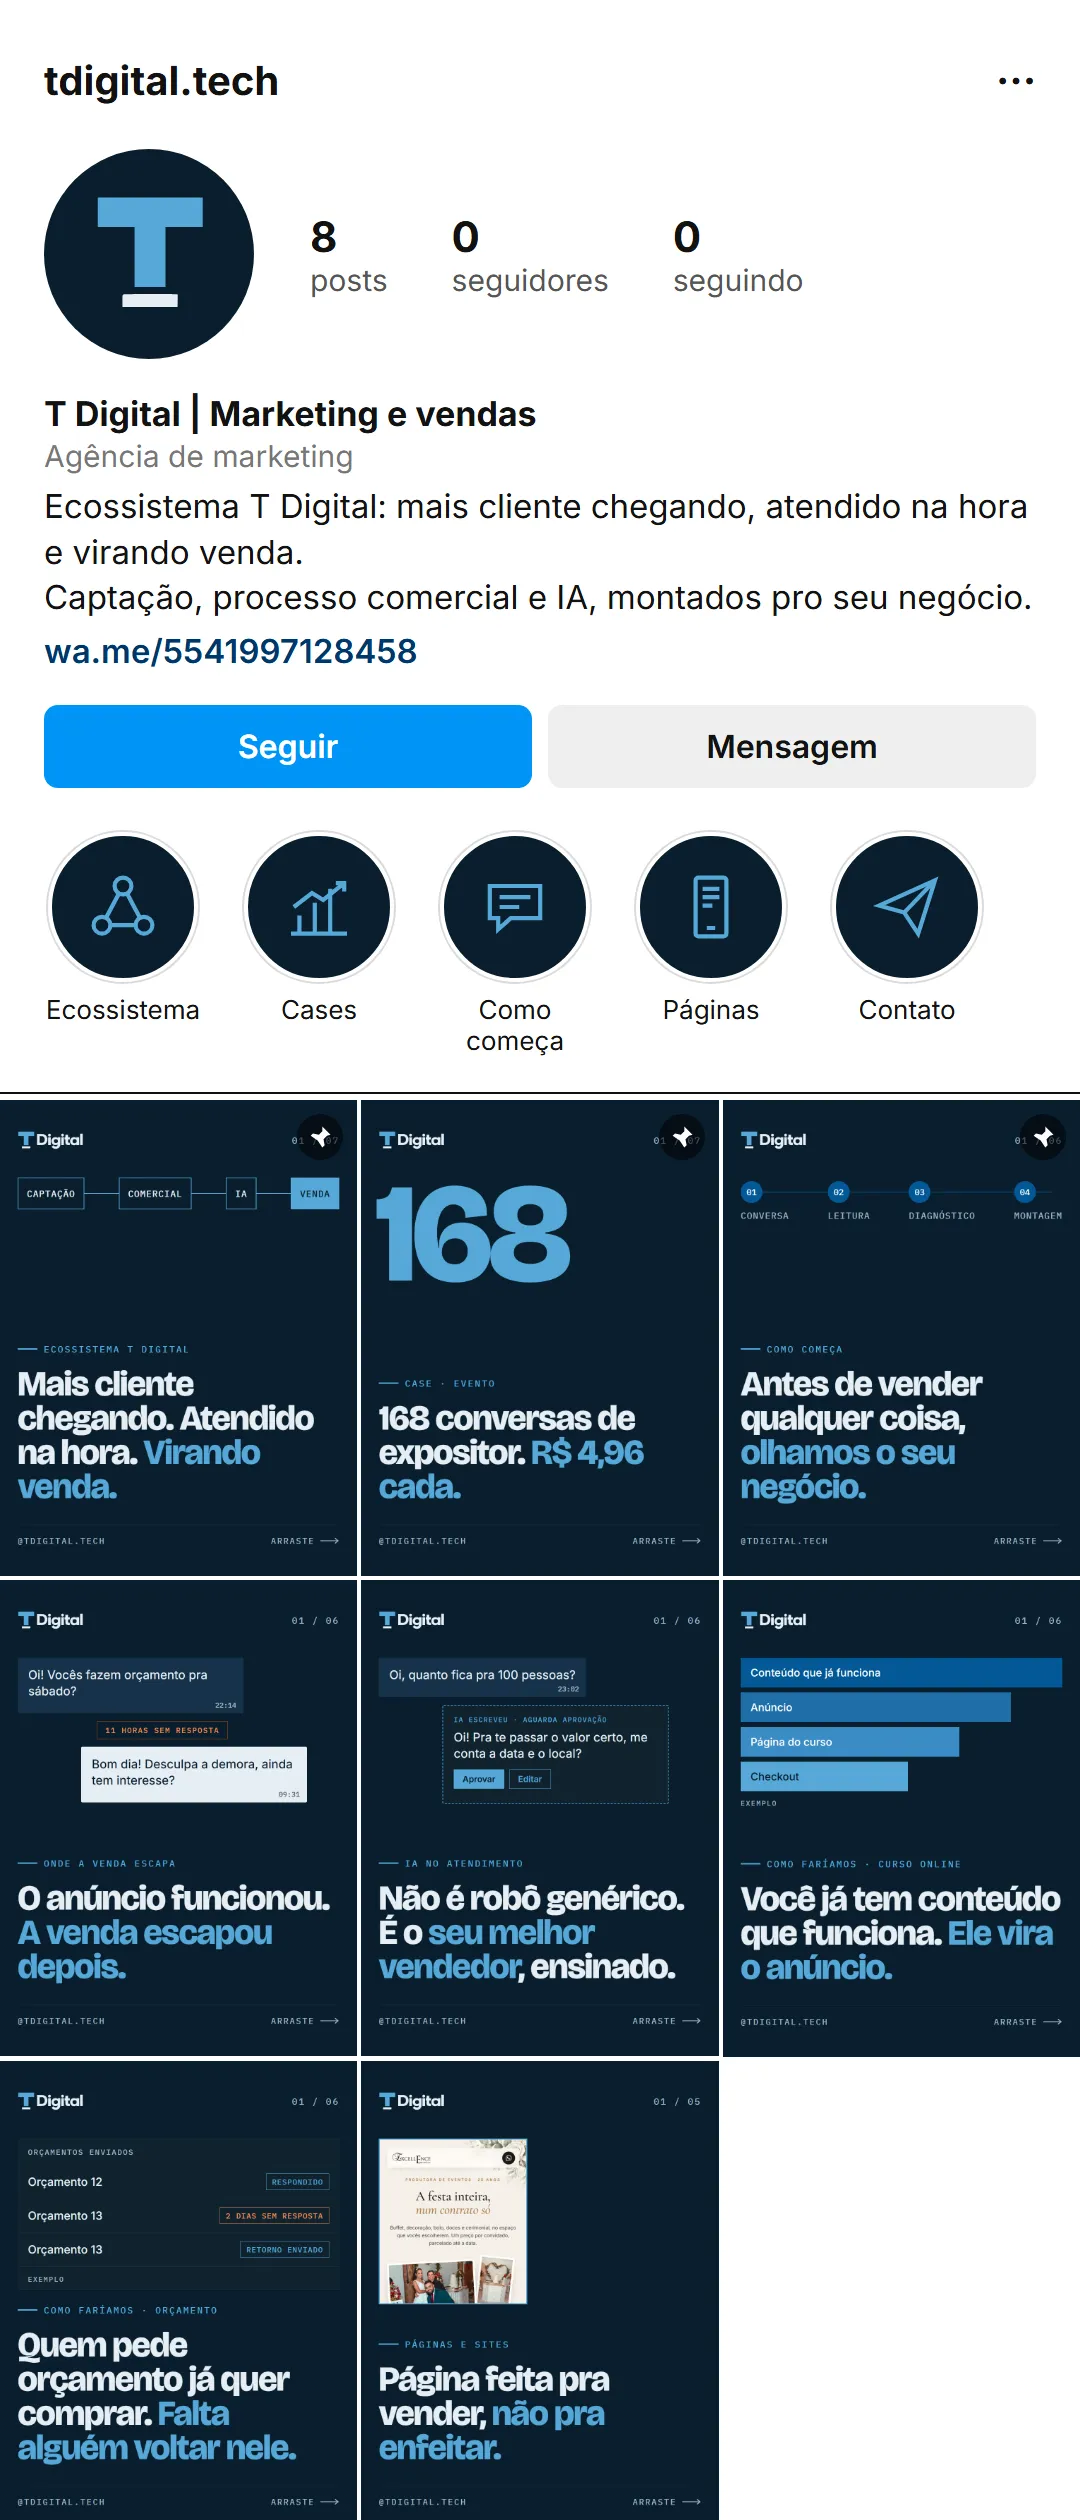
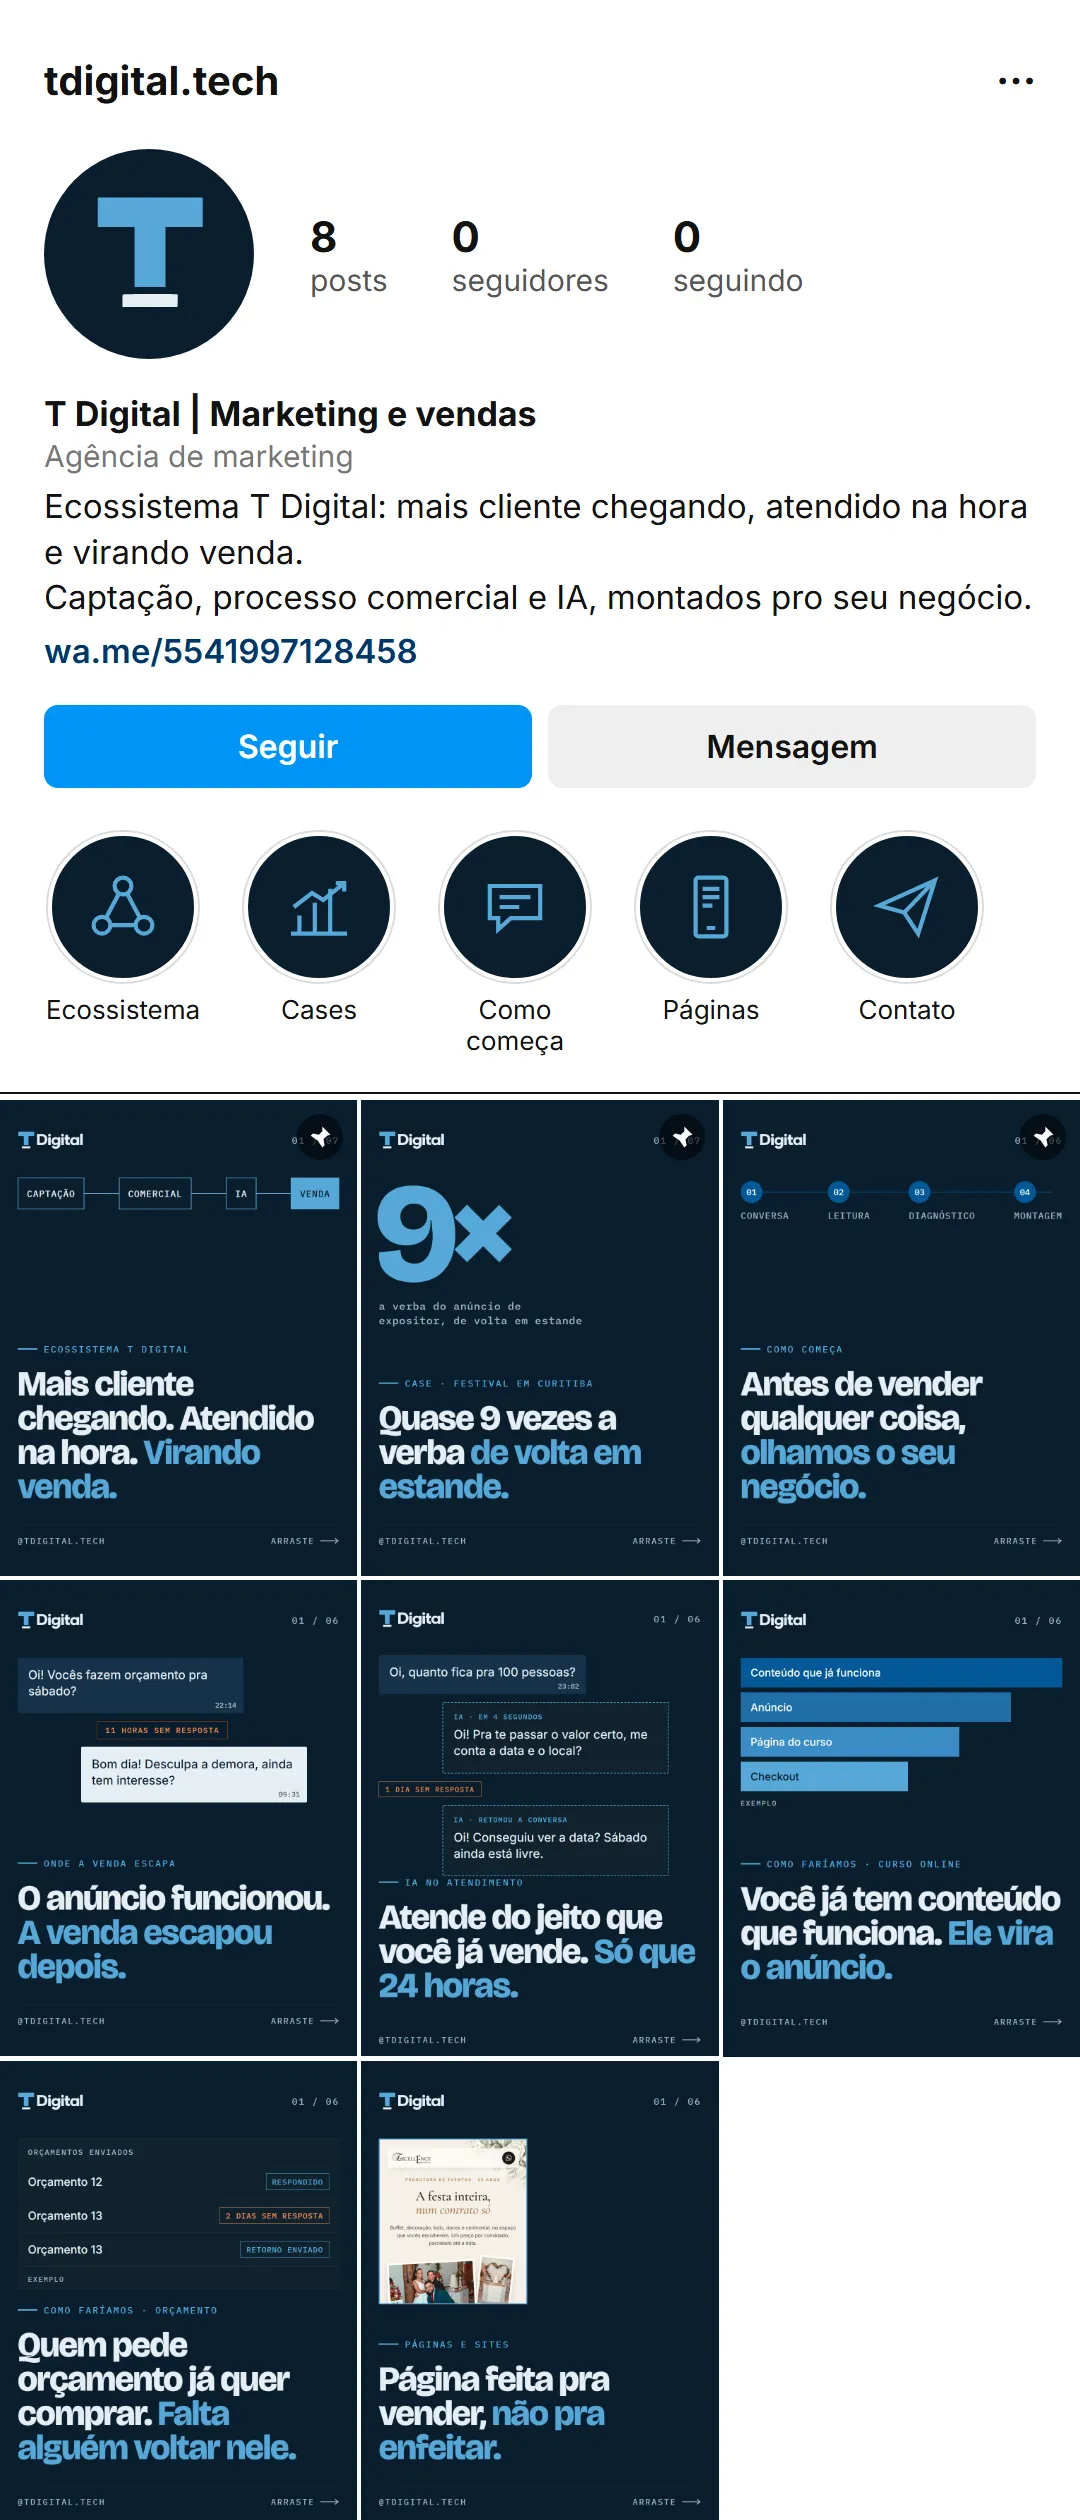
T Digital: kit do Instagram versao 3, com os ajustes da aprovacao de 17/11

Changed region(s): [[0.3361, 0.65, 0.6417, 0.8048], [0.3361, 0.4643, 0.55, 0.5262], [0.3361, 0.5571, 0.6111, 0.619]]

diff --git a/public/tdigital/2026-11-17-lancamento/dados.js b/public/tdigital/2026-11-17-lancamento/dados.js
@@ -66,6 +66,7 @@ window.DADOS = {
      "titulo": "O Ecossistema T Digital",
      "etiqueta": "Post fixado",
      "ordem": "1 de 8",
+     "nota": "Sem o T de fundo. No slide da IA, saiu o \"sua equipe aprova antes\": agora é \"você controla as respostas\".",
      "slides": [
       {
        "src": "img/2-1-1.webp",
@@ -119,15 +120,7 @@ window.DADOS = {
      "titulo": "Case: festival em Curitiba",
      "etiqueta": "Post fixado",
      "ordem": "2 de 8",
-     "escolhas": [
-      {
-       "pergunta": "Case em carrossel ou no reels de 20/10?",
-       "opcoes": [
-        "Fica o carrossel",
-        "Quero o reels no lugar"
-       ]
-      }
-     ],
+     "nota": "Sem o número de conversas. Agora pela estratégia (dois públicos, verba que muda de lado) e pelo retorno: R$ 7.350 em estandes contra R$ 833 de anúncio, quase 9 vezes. Números do relatório final da 15ª edição.",
      "slides": [
       {
        "src": "img/2-2-1.webp",
@@ -170,7 +163,7 @@ window.DADOS = {
        "resumo": "Ver a legenda",
        "partes": [
         {
-         "texto": "168 conversas de quem queria expor, a R$ 4,96 cada.\n\nFestival em Curitiba, 15ª edição. Montamos a página de quem expõe, o anúncio direto pro WhatsApp e a medição de onde veio cada conversa.\n\nArraste pro lado e veja o caminho.\n\nTem evento com data marcada? Chame no WhatsApp, o link está na bio.\n\n#eventos #marketingdeeventos #trafegopago #curitiba"
+         "texto": "Quase 9 vezes a verba de volta em estande.\n\nFestival em Curitiba, 15ª edição. 51 dias antes, 40 de 120 estandes vendidos, sem site e sem medição. Separamos os dois públicos: expositor direto pro WhatsApp da venda de estande, visitante pra página com cadastro VIP. A verba mudou de lado conforme a data chegava.\n\nO anúncio de expositor fechou R$ 7.350 em estandes com R$ 833 de verba. E ficaram 632 cadastros VIP pra próxima edição.\n\nTem evento com data marcada? Chame no WhatsApp, o link está na bio.\n\n#eventos #marketingdeeventos #trafegopago #curitiba"
         }
        ]
       }
@@ -237,6 +230,7 @@ window.DADOS = {
      "id": "2-4",
      "titulo": "Onde a venda escapa",
      "ordem": "4 de 8",
+     "nota": "Saiu a foto da casa. O slide 2 agora é o celular de perto, com a conversa que esfriou na demora, sobre um balcão desfocado. Sem o T de fundo.",
      "slides": [
       {
        "src": "img/2-4-1.webp",
@@ -284,6 +278,7 @@ window.DADOS = {
      "id": "2-5",
      "titulo": "IA no atendimento, do jeito certo",
      "ordem": "5 de 8",
+     "nota": "Reescrito com o seu argumento: treinada do jeito que você já vende, 24 horas sem limite, retoma quem parou de responder, controle total e uma pessoa assume quando precisar. Saiu o \"aprova antes\".",
      "slides": [
       {
        "src": "img/2-5-1.webp",
@@ -321,7 +316,7 @@ window.DADOS = {
        "resumo": "Ver a legenda",
        "partes": [
         {
-         "texto": "IA que responde qualquer coisa de qualquer jeito afasta cliente.\n\nA nossa aprende com as conversas que já viraram venda no seu WhatsApp, começa com a sua equipe aprovando cada resposta e passa pra uma pessoa quando o assunto pede.\n\nChame no WhatsApp pra ver como funciona.\n\n#inteligenciaartificial #atendimento #whatsappbusiness"
+         "texto": "A IA que atende do jeito que você já vende. Só que 24 horas.\n\nTreinada nas conversas que já viraram venda no seu WhatsApp, responde na hora, sem cansaço e sem dia ruim, e volta em quem parou de responder. Você controla as respostas, e uma pessoa assume sempre que precisar.\n\nNão substitui ninguém: dá eficiência e autonomia pra quem cuida do comercial.\n\nChame no WhatsApp pra ver como funciona.\n\n#inteligenciaartificial #atendimento #whatsappbusiness"
         }
        ]
       }
@@ -332,7 +327,7 @@ window.DADOS = {
      "titulo": "Como faríamos: curso online",
      "etiqueta": "Exemplo",
      "ordem": "6 de 8",
-     "nota": "Exemplo ilustrativo de como montaríamos o plano. Não usa número de cliente.",
+     "nota": "Sem o T de fundo e sem o selo na foto.",
      "slides": [
       {
        "src": "img/2-6-1.webp",
@@ -381,7 +376,7 @@ window.DADOS = {
      "titulo": "Como faríamos: serviço por orçamento",
      "etiqueta": "Exemplo",
      "ordem": "7 de 8",
-     "nota": "Exemplo ilustrativo de como montaríamos o plano. Não usa número de cliente.",
+     "nota": "Saiu a marcenaria. O slide 2 agora é o celular com a mensagem que chega do anúncio, já com a origem, sobre uma mesa desfocada.",
      "slides": [
       {
        "src": "img/2-7-1.webp",
@@ -429,40 +424,36 @@ window.DADOS = {
      "id": "2-8",
      "titulo": "Página feita pra vender",
      "ordem": "8 de 8",
-     "nota": "O print do festival mostra as datas da 15ª edição (17 e 18 de outubro). Serve de vitrine da página. Se preferir, troco por um print da 16ª quando a página dela estiver no ar.",
-     "escolhas": [
-      {
-       "pergunta": "Posso usar o site da produtora e a página do festival como vitrine?",
-       "opcoes": [
-        "Pode usar",
-        "Esperar a Novo Ambiente no ar"
-       ]
-      }
-     ],
+     "nota": "Três sites rolando de cima pra baixo, um por slide: a produtora, o escritório de advocacia e a escola de dança (prévia, mostrada sem o nome).",
      "slides": [
       {
        "src": "img/2-8-1.webp",
-       "label": "1 de 5",
+       "label": "1 de 6",
        "ia": false
       },
       {
        "src": "img/2-8-2.webp",
-       "label": "2 de 5",
+       "label": "2 de 6",
        "ia": false
       },
       {
        "src": "img/2-8-3.webp",
-       "label": "3 de 5",
+       "label": "3 de 6",
        "ia": false
       },
       {
        "src": "img/2-8-4.webp",
-       "label": "4 de 5",
+       "label": "4 de 6",
        "ia": false
       },
       {
        "src": "img/2-8-5.webp",
-       "label": "5 de 5",
+       "label": "5 de 6",
+       "ia": false
+      },
+      {
+       "src": "img/2-8-6.webp",
+       "label": "6 de 6",
        "ia": false
       }
      ],
@@ -570,6 +561,11 @@ window.DADOS = {
       {
        "src": "img/3-4-3.webp",
        "label": "Story 2",
+       "ia": false
+      },
+      {
+       "src": "img/3-4-4.webp",
+       "label": "Story 3",
        "ia": false
       }
      ]
